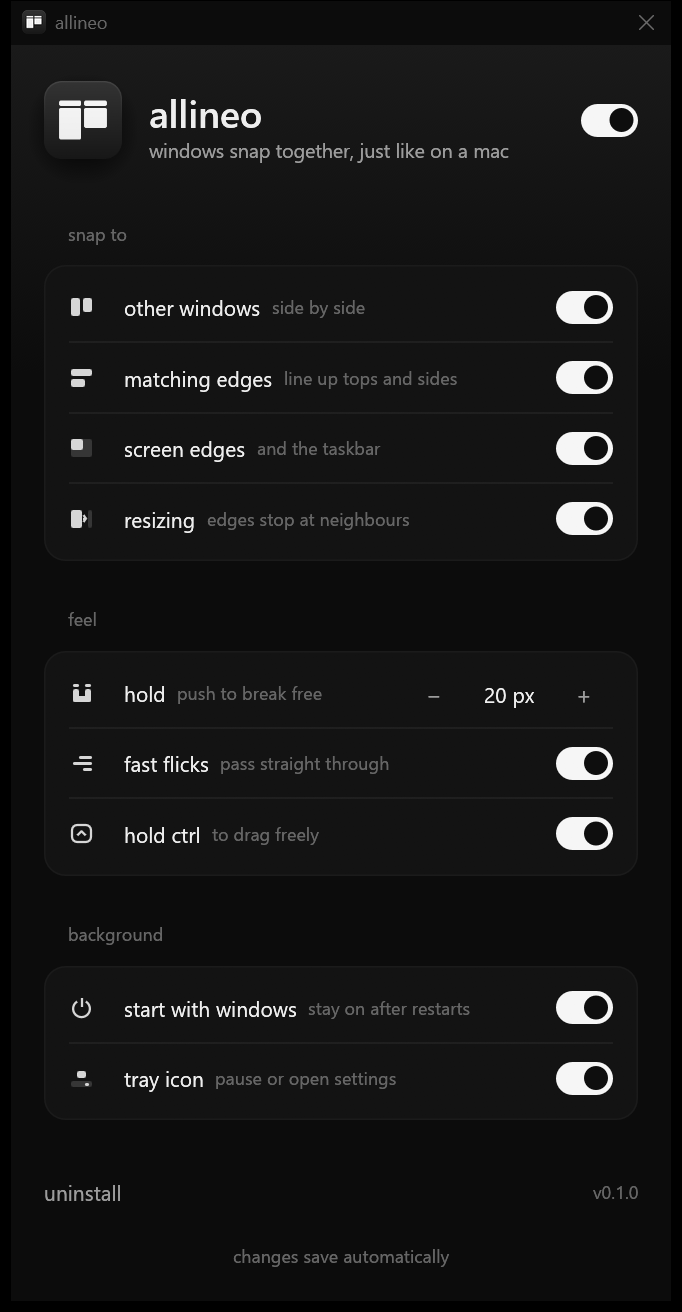
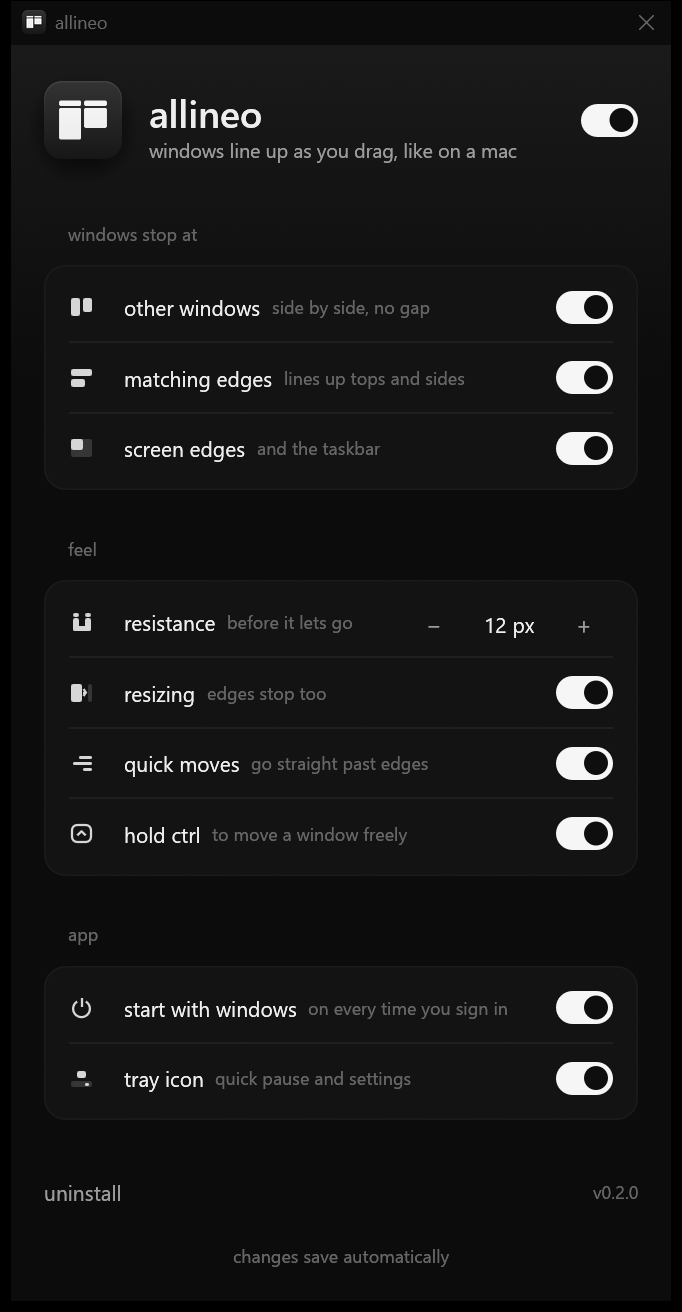
v0.2.0: clearer settings texts, demo re-recorded with the new feel

diff --git a/crates/allineo/src/ui.rs b/crates/allineo/src/ui.rs
@@ -53,7 +53,7 @@ const ROW_HEIGHT: f32 = 46.0;
 const FOOTER_BUTTON: f32 = 40.0;
 /// How long the "installed ✓" pill stays before the footer settles.
 const DONE_PILL_SECS: f64 = 1.6;
-/// Measured height with every row showing except "restore mac feel".
+/// Measured height with every row showing except "reset to mac feel".
 const HEIGHT: f32 = 856.0;
 
 type Outcome = Arc<Mutex<Option<Result<(), String>>>>;
@@ -165,14 +165,14 @@ impl SettingsApp {
                     ui.add_space(4.0);
                     ui.spacing_mut().item_spacing.y = 0.0;
                     ui.label(RichText::new(APP).size(25.0).family(semibold()).color(TEXT));
-                    ui.label(RichText::new("windows snap together, just like on a mac").size(13.0).color(TEXT_2));
+                    ui.label(RichText::new("windows line up as you drag, like on a mac").size(13.0).color(TEXT_2));
                 });
             },
             |ui| {
                 // Centered against the 52 pt logo, in a slot just big enough for the switch.
                 ui.allocate_ui_with_layout(Vec2::new(38.0, 52.0), Layout::top_down(Align::Min), |ui| {
                     ui.add_space(15.0);
-                    let tip = if self.cfg.enabled { "pause" } else { "resume" };
+                    let tip = if self.cfg.enabled { "on · click to pause" } else { "paused · click to turn on" };
                     theme::toggle(ui, &mut self.cfg.enabled).on_hover_text(tip);
                 });
             },
@@ -214,16 +214,20 @@ impl SettingsApp {
 
     fn settings(&mut self, ui: &mut egui::Ui) {
         let c = &mut self.cfg;
-        theme::caption(ui, "snap to");
+        theme::caption(ui, "windows stop at");
         theme::group(ui, |ui| {
             ui.spacing_mut().item_spacing.y = 0.0;
-            Self::toggle_row(ui, RowGlyph::OtherWindows, "other windows", "side by side", &mut c.other_windows);
+            Self::toggle_row(ui, RowGlyph::OtherWindows, "other windows", "side by side, no gap", &mut c.other_windows);
             theme::hairline(ui);
-            Self::toggle_row(ui, RowGlyph::Matching, "matching edges", "line up tops and sides", &mut c.matching_edges);
+            Self::toggle_row(
+                ui,
+                RowGlyph::Matching,
+                "matching edges",
+                "lines up tops and sides",
+                &mut c.matching_edges,
+            );
             theme::hairline(ui);
             Self::toggle_row(ui, RowGlyph::Screen, "screen edges", "and the taskbar", &mut c.screen_edges);
-            theme::hairline(ui);
-            Self::toggle_row(ui, RowGlyph::Resize, "resizing", "edges stop at neighbours", &mut c.resizing);
         });
 
         ui.add_space(16.0);
@@ -233,7 +237,7 @@ impl SettingsApp {
             Self::row(
                 ui,
                 RowGlyph::Hold,
-                |ui| Self::label(ui, "hold", "push to break free"),
+                |ui| Self::label(ui, "resistance", "before it lets go"),
                 |ui| {
                     let (less, more) =
                         theme::stepper(ui, &format!("{} px", c.hold), "lets go sooner", "holds on longer");
@@ -246,30 +250,32 @@ impl SettingsApp {
                 },
             );
             theme::hairline(ui);
-            Self::toggle_row(ui, RowGlyph::Flick, "fast flicks", "pass straight through", &mut c.fast_flicks_pass);
+            Self::toggle_row(ui, RowGlyph::Resize, "resizing", "edges stop too", &mut c.resizing);
             theme::hairline(ui);
-            Self::toggle_row(ui, RowGlyph::Key, "hold ctrl", "to drag freely", &mut c.ctrl_bypass);
+            Self::toggle_row(ui, RowGlyph::Flick, "quick moves", "go straight past edges", &mut c.fast_flicks_pass);
+            theme::hairline(ui);
+            Self::toggle_row(ui, RowGlyph::Key, "hold ctrl", "to move a window freely", &mut c.ctrl_bypass);
             if !c.feels_like_mac() {
                 theme::hairline(ui);
-                if theme::action_row(ui, ROW_HEIGHT, RowGlyph::Restore, "restore mac feel").clicked() {
+                if theme::action_row(ui, ROW_HEIGHT, RowGlyph::Restore, "reset to mac feel").clicked() {
                     c.restore_mac_feel();
                 }
             }
         });
 
         ui.add_space(16.0);
-        theme::caption(ui, "background");
+        theme::caption(ui, "app");
         theme::group(ui, |ui| {
             ui.spacing_mut().item_spacing.y = 0.0;
             Self::toggle_row(
                 ui,
                 RowGlyph::Startup,
                 "start with windows",
-                "stay on after restarts",
+                "on every time you sign in",
                 &mut c.start_with_windows,
             );
             theme::hairline(ui);
-            Self::toggle_row(ui, RowGlyph::Tray, "tray icon", "pause or open settings", &mut c.tray_icon);
+            Self::toggle_row(ui, RowGlyph::Tray, "tray icon", "quick pause and settings", &mut c.tray_icon);
         });
     }
 
@@ -412,7 +418,7 @@ impl eframe::App for SettingsApp {
             })
             .inner;
 
-        // Fit the window to its content ("restore mac feel" comes and goes).
+        // Fit the window to its content ("reset to mac feel" comes and goes).
         let wanted = (content + 2.0 * 22.0 - 8.0).round();
         if (wanted - self.height).abs() > 1.0 {
             self.height = wanted;

diff --git a/crates/allineo/examples/demo.rs b/crates/allineo/examples/demo.rs
@@ -380,7 +380,7 @@ fn direct(out: &str) {
     pause(0.25);
     mouse(MOUSEEVENTF_LEFTDOWN);
     pause(0.15);
-    let push = 26;
+    let push = 12;
     p = glide(p, (p.0 + (fb.left - fa.right) + push, p.1), 1.4);
     pause(0.6);
     // 2. Slide it up: its top lines up with the neighbour's.
@@ -396,7 +396,7 @@ fn direct(out: &str) {
     pause(0.2);
     mouse(MOUSEEVENTF_LEFTDOWN);
     pause(0.1);
-    p = glide(p, (p.0, p.1 + (fb.bottom - fa.bottom) + 22), 0.9);
+    p = glide(p, (p.0, p.1 + (fb.bottom - fa.bottom) + 12), 0.9);
     pause(0.4);
     mouse(MOUSEEVENTF_LEFTUP);
     glide(p, (p.0 + 90, p.1 + 60), 0.4);

diff --git a/crates/allineo/src/theme.rs b/crates/allineo/src/theme.rs
@@ -296,7 +296,7 @@ pub fn row_glyph(ui: &mut Ui, glyph: RowGlyph, ink: Color32) {
     }
 }
 
-/// A whole-width clickable row (used for "restore mac feel"): brightens on hover.
+/// A whole-width clickable row (used for "reset to mac feel"): brightens on hover.
 pub fn action_row(ui: &mut Ui, height: f32, glyph: RowGlyph, text: &str) -> Response {
     let (rect, response) = ui.allocate_exact_size(Vec2::new(ui.available_width(), height), Sense::click());
     let hovered = response.hovered();

diff --git a/README.md b/README.md
@@ -66,8 +66,8 @@ usual.
 
 ## Make it yours
 
-Open **allineo** from the Start menu (or click its tray icon) to choose what windows snap to and how
-firmly they hold. Changes save by themselves, and **restore mac feel** puts everything back to the
+Open **allineo** from the Start menu (or click its tray icon) to choose what windows stop at and how
+firmly they hold. Changes save by themselves, and **reset to mac feel** puts everything back to the
 macOS defaults.
 
 <p align="center">
